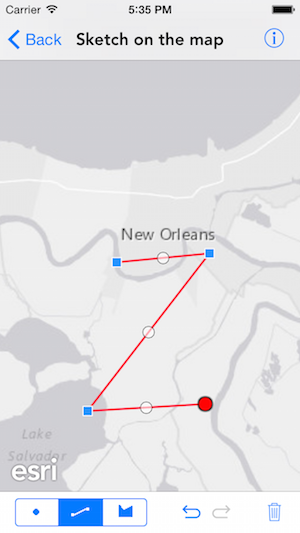
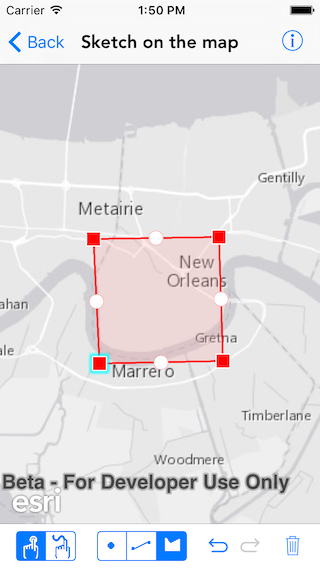
Added support for freehand sketching

diff --git a/arcgis-ios-sdk-samples/Display information/Sketch on the map/SketchViewController.swift b/arcgis-ios-sdk-samples/Display information/Sketch on the map/SketchViewController.swift
@@ -17,15 +17,17 @@ import ArcGIS
 
 class SketchViewController: UIViewController {
 
-    @IBOutlet private weak var mapView:AGSMapView!
-    @IBOutlet private weak var geometrySegmentedControl:UISegmentedControl!
-    @IBOutlet private weak var undoBBI:UIBarButtonItem!
-    @IBOutlet private weak var redoBBI:UIBarButtonItem!
-    @IBOutlet private weak var clearBBI:UIBarButtonItem!
+    @IBOutlet private var mapView:AGSMapView!
+    @IBOutlet private var geometrySegmentedControl:UISegmentedControl!
+    @IBOutlet private var sketchStyleSegmentedControl:UISegmentedControl!
+    @IBOutlet private var undoBBI:UIBarButtonItem!
+    @IBOutlet private var redoBBI:UIBarButtonItem!
+    @IBOutlet private var clearBBI:UIBarButtonItem!
     
     
     private var map:AGSMap!
     private var geometrySketchEditor:AGSGeometrySketchEditor!
+    private var freehandSketchEditor:AGSFreehandSketchEditor!
     
     override func viewDidLoad() {
         super.viewDidLoad()
@@ -33,16 +35,30 @@ class SketchViewController: UIViewController {
         //add the source code button item to the right of navigation bar
         (self.navigationItem.rightBarButtonItem as! SourceCodeBarButtonItem).filenames = ["SketchViewController"]
         
+        //instantiate map with basemap
         self.map = AGSMap(basemap: AGSBasemap.lightGrayCanvasBasemap())
         
+        //assign map to map view
+        self.mapView.map = self.map
+        
+        //enable magnifier on map view (visible on long press)
+        self.mapView.magnifierEnabled = true
+        
+        //instantiate geometry sketch editor
         self.geometrySketchEditor = AGSGeometrySketchEditor()
         self.geometrySketchEditor.geometryBuilder = AGSPolylineBuilder(spatialReference: AGSSpatialReference.webMercator())
+        
+        //by default geometry sketch editor is selected, 
+        //so assign it to the map view
         self.mapView.sketchEditor =  self.geometrySketchEditor
         
-        self.geometrySketchEditor.enabled = true
+        //instantiate freehand sketch editor
+        self.freehandSketchEditor = AGSFreehandSketchEditor()
         
-        self.mapView.map = self.map
-        self.mapView.magnifierEnabled = true
+        //enable both sketch editors, so that we dont have to do
+        //it when user switch between them
+        self.geometrySketchEditor.enabled = true
+        self.freehandSketchEditor.enabled = true
         
         NSNotificationCenter.defaultCenter().addObserver(self, selector: #selector(SketchViewController.respondToGeomChanged), name: AGSSketchEditorSketchDidChangeNotification, object: nil)
 
@@ -57,43 +73,91 @@ class SketchViewController: UIViewController {
     
     func respondToGeomChanged() {
         //Enable/disable UI elements appropriately
-        self.undoBBI.enabled = self.geometrySketchEditor.undoManager.canUndo
-        self.redoBBI.enabled = self.geometrySketchEditor.undoManager.canRedo
-        self.clearBBI.enabled = self.geometrySketchEditor.geometryBuilder != nil && !self.geometrySketchEditor.geometryBuilder!.isEmpty()
+        self.undoBBI.enabled = self.mapView.sketchEditor!.undoManager.canUndo
+        self.redoBBI.enabled = self.mapView.sketchEditor!.undoManager.canRedo
+        
+        if self.mapView.sketchEditor! == self.geometrySketchEditor {
+            self.clearBBI.enabled = self.geometrySketchEditor.geometryBuilder != nil && !self.geometrySketchEditor.geometryBuilder!.isEmpty()
+        }
+        else {
+            self.clearBBI.enabled = self.freehandSketchEditor.geometries.count > 0
+        }
     }
     
     //MARK: - Actions
     
-    @IBAction func geometryValueChanged(segmentedControl:UISegmentedControl) {
-        switch segmentedControl.selectedSegmentIndex {
-        case 0://point
-            self.geometrySketchEditor.geometryBuilder = AGSPointBuilder(spatialReference: AGSSpatialReference.webMercator())
+    @IBAction func sketchStyleChanged(segmentedControl: UISegmentedControl) {
+        
+        if segmentedControl.selectedSegmentIndex == 0 {
+            //assign geometry sketch editor to map view
+            self.mapView.sketchEditor = self.geometrySketchEditor
             
-        case 1://polyline
-            self.geometrySketchEditor.geometryBuilder = AGSPolylineBuilder(spatialReference: AGSSpatialReference.webMercator())
-            
-        case 2://polygon
-            self.geometrySketchEditor.geometryBuilder = AGSPolygonBuilder(spatialReference: AGSSpatialReference.webMercator())
-            
-        default:
-            break
+            //enable point segment
+            self.geometrySegmentedControl.setEnabled(true, forSegmentAtIndex: 0)
         }
-        self.geometrySketchEditor.undoManager.removeAllActions()
+        else {
+            //assign freehand sketch editor to map view
+            self.mapView.sketchEditor = self.freehandSketchEditor
+            
+            //disable point segment as freehand does not support points
+            self.geometrySegmentedControl.setEnabled(false, forSegmentAtIndex: 0)
+        }
+        
+        //switch to polyline
+        self.geometrySegmentedControl.selectedSegmentIndex = 1
+        
+        //call respondToGeomChanged() to update the bar button items
+        self.respondToGeomChanged()
+    }
+    
+    @IBAction func geometryValueChanged(segmentedControl:UISegmentedControl) {
+        if self.sketchStyleSegmentedControl.selectedSegmentIndex == 0 {
+            switch segmentedControl.selectedSegmentIndex {
+            case 0://point
+                self.geometrySketchEditor.geometryBuilder = AGSPointBuilder(spatialReference: AGSSpatialReference.webMercator())
+                
+            case 1://polyline
+                self.geometrySketchEditor.geometryBuilder = AGSPolylineBuilder(spatialReference: AGSSpatialReference.webMercator())
+                
+            case 2://polygon
+                self.geometrySketchEditor.geometryBuilder = AGSPolygonBuilder(spatialReference: AGSSpatialReference.webMercator())
+                
+            default:
+                break
+            }
+            
+            //remove all actions from undo manager
+            self.mapView.sketchEditor!.undoManager.removeAllActions()
+        }
+        else {
+            switch segmentedControl.selectedSegmentIndex {
+            case 1: //polyline
+                self.freehandSketchEditor.currentGeometryType = .Polyline
+            default:    //polygon
+                self.freehandSketchEditor.currentGeometryType = .Polygon
+            }
+        }
     }
     
     @IBAction func undo() {
-        if self.geometrySketchEditor.undoManager.canUndo { //extra check, just to be sure
-            self.geometrySketchEditor.undoManager.undo()
+        if self.mapView.sketchEditor!.undoManager.canUndo { //extra check, just to be sure
+            self.mapView.sketchEditor!.undoManager.undo()
         }
     }
     
     @IBAction func redo() {
-        if self.geometrySketchEditor.undoManager.canRedo { //extra check, just to be sure
-            self.geometrySketchEditor.undoManager.redo()
+        if self.mapView.sketchEditor!.undoManager.canRedo { //extra check, just to be sure
+            self.mapView.sketchEditor!.undoManager.redo()
         }
     }
     
     @IBAction func clear() {
-        self.geometrySketchEditor.clear()
+        //TODO: remove the work around once clear() is part of super class
+        if self.mapView.sketchEditor! == self.geometrySketchEditor {
+            self.geometrySketchEditor.clear()
+        }
+        else {
+            self.freehandSketchEditor.clear()
+        }
     }
 }

diff --git a/arcgis-ios-sdk-samples/Edit data/Update geometries (feature service)/EditGeometryViewController.swift b/arcgis-ios-sdk-samples/Edit data/Update geometries (feature service)/EditGeometryViewController.swift
@@ -157,5 +157,7 @@ class EditGeometryViewController: UIViewController, AGSGeoViewTouchDelegate, AGS
         self.mapView.touchDelegate = self
         //clear sketch graphics overlay
         self.geometrySketchEditor.clear()
+        
+        
     }
 }

diff --git a/arcgis-ios-sdk-samples/Display information/Sketch on the map/README.md b/arcgis-ios-sdk-samples/Display information/Sketch on the map/README.md
@@ -1,17 +1,18 @@
 #Sketch on the map
 
-This sample demonstrates how you can use the sketch graphics overlay to draw point or line or polygon geometry
+This sample demonstrates how you can use the sketch editor to draw point or line or polygon geometry and do freehand sketch
 
 ##How to use the sample
 
-The sample has a toolbar of sketch tools at the bottom. You can choose the type of geometry using the switch. Sketch by tapping on the map. There are tools to undo or redo an action or clear everything.
+The sample has a toolbar where you can choose between the sketching style. You can choose the type of geometry using the second switch. Sketch by tapping on the map or freehand drawing. There are tools to undo or redo an action or clear everything.
 
 ![](image1.png)
 ![](image2.png)
+![](image3.png)
 
 ##How it works
 
-To set the type of geometry, you need to assign the `geometryBuilder` property on `AGSSketchGraphicsOverlay`. It could be a `AGSPointBuilder` or `AGSPolylineBuilder` or `AGSPolygonBuilder`. The sketch graphics overlay has a undo manager of type `NSUndoManager` that provides the undo and redo methods. To clear everything there is a `clear` method on the sketch graphics overlay.
+The sample uses `AGSGeometrySketchEditor` class for the primitive sketching and `AGSFreehandSketchEditor` class for freehand sketching. To set the type of geometry when using `AGSGeometrySketchEditor`, you need to assign the `geometryBuilder` property on `AGSSketchGraphicsOverlay`. It could be a `AGSPointBuilder` or `AGSPolylineBuilder` or `AGSPolygonBuilder`. While the `AGSFreehandSketchEditor` has a `currentGeometryType` enum to select the geometry type (only polyline and polygon are supported for freehand sketching). The sketch editor has a undo manager of type `NSUndoManager` that provides the undo and redo methods. To clear everything there is a `clear` method on the sketch editor.
 
 
 
